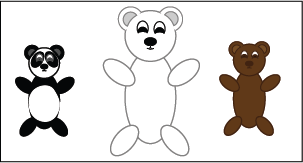
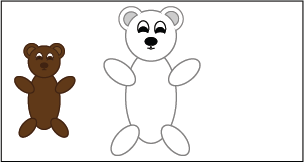
ya

diff --git a/javascript/javascript.js b/javascript/javascript.js
@@ -9,9 +9,10 @@ const pijlAchtergrondRechts = document.querySelector('#pijlRechtsAchtergrond');
 const pijlAchtergrondLinks = document.querySelector('#pijlLinksAchtergrond');
 const body = document.querySelector("body");
 const achtergrondVeranderen = document.querySelector("#achtergrondveranderen");
+const kleineBeerVeranderen = document.querySelector('#beertjeveranderen');
 
 //LET
-let namen = ['Beernard', 'Beerend', 'Brom', 'Ijs', 'Beerta', 'Beert', 'Beernie', 'Beertie'];
+let namen = ['Beernard', 'Beerend', 'Brom', 'Ijs', 'Beerta', 'Beert', 'Beernie', 'Beertie', 'Knuffel', 'Gummy'];
 let naamveranderen = document.querySelector("#dobbelsteen");
 let randomnaam = Math.random();
 let audio = new Audio("./audio/beerRoar.mp3");
@@ -42,14 +43,16 @@ function beerkeuzeEraf() {
 function beerUpdate() {
     if(beerkeuze == 0) {
         document.getElementById("bruineBeer").src = "./images/bruinebeer.png"
+        kleineBeerVeranderen.src = "./images/beertjeveranderen.bruin.png"
     }
     else if (beerkeuze == 1) {
         document.getElementById("bruineBeer").src = "./images/ijsbeer.png"
+        kleineBeerVeranderen.src = "./images/beertjeveranderen.ijs.png"
     }
     else if (beerkeuze == -1) {
         document.getElementById("bruineBeer").src = "./images/pandabeer.png"
+        kleineBeerVeranderen.src = "./images/beertjeveranderen.panda.png"
     }
-
 }
 
 function achtergrondErbij() {
@@ -91,7 +94,7 @@ function beerGromt(){
 
 
 //bloemetje groeit na 5 seconden lightbulb opdracht
-function showBloemetje() {
+function geenBloemetje() {
     bloemetje.src = "./images/bloembak.png"
     setTimeout(groeiBloemetje, 5000)
 }
@@ -100,11 +103,11 @@ function groeiBloemetje() {
     bloemetje.src = "./images/bloemetje.png"
 }
 
-showBloemetje()
+geenBloemetje()
 
 //Random naam als je op dobbelsteen klikt dobbelsteen opdracht
 function randomNaam() {
-    document.getElementById('nameInput').value = namen[Math.ceil(Math.random() * 5)]
+    document.getElementById('nameInput').value = namen[Math.ceil(Math.random() * 9)]
 }
 
 //EVENTLISTENER

diff --git a/style/style.css b/style/style.css
@@ -54,6 +54,7 @@ header {
 
 #bloemetje {
     padding: 100px;
+    margin-top: 150px;
 }
 
 .controls div {
